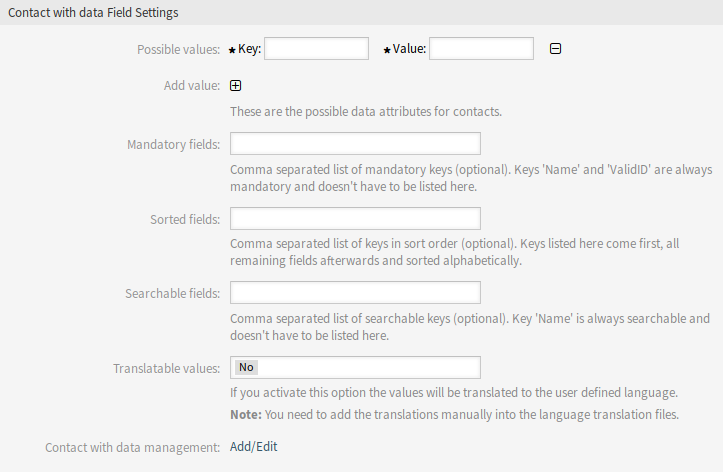
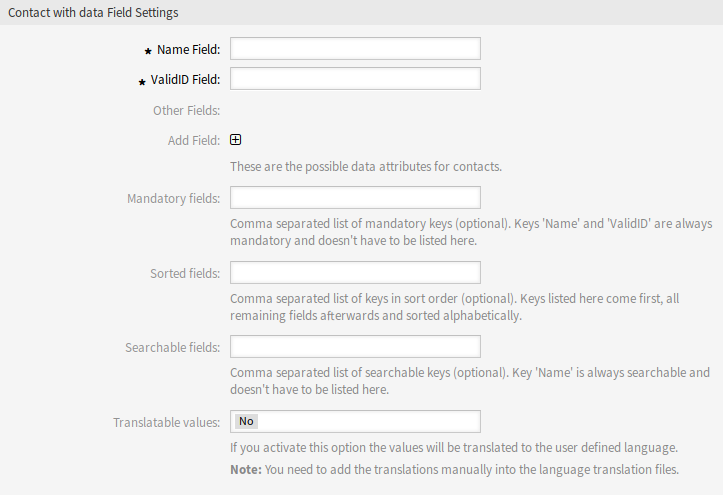
Adapted documentation to new contact with data dynamic field screen.

diff --git a/content/processes-automation/dynamic-fields.rst b/content/processes-automation/dynamic-fields.rst
@@ -128,14 +128,21 @@ This dynamic field allows to add contacts with data to tickets.
 
    Contact With Data Dynamic Field Settings
 
-Possible values \*
-   These are the possible data attributes for contacts. Clicking on the *⊞* button will add two new fields, where a key (internal value) and a value (displayed value) can be set. With the button you can add multiple key-value pairs.
+Name Field \*
+   The attribute ``Name`` is always mandatory and it is not automatically added, so for each new data source this attribute must be added manually. Within the data source definition (or dynamic field configuration) they must be represented by the key ``Name`` and the value could be *Name* for example.
 
-   .. note::
+ValidID Field \*
+   The attribute ``ValidID`` is always mandatory and it is not automatically added, so for each new data source this attribute must be added manually. Within the data source definition (or dynamic field configuration) they must be represented by the key ``ValidID`` and the value could be *Validity* for example.
 
-      The attributes ``Name`` and ``ValidID`` are always mandatory and they are not automatically added, so for each new data source these attributes must be added manually.
+Other Fields
+   These are the possible data attributes for contacts. Clicking on the *⊞* button of the *Add Fields* will add two new fields, where a *Key* (internal value) and a *Value* (displayed value) can be set. With the button you can add multiple key-value pairs.
 
-      Within the data source definition (or dynamic field configuration) they must be represented by the keys ``Name`` and ``ValidID`` respectively while the values could be *Name* and *Validity* for example.
+   .. warning::
+
+      The keys ``Name`` and ``ValidID`` are already used by *Name Field* and *ValidID Field*. Do not use these keys again!
+
+Add Fields
+   Use this button to add more fields to dynamic field.
 
 Mandatory fields
    Comma separated list of mandatory keys.
@@ -161,17 +168,44 @@ Translatable values
 
       You need to add the translations manually into the language translation files.
 
-Contact with data management
-   There is a link *Add/Edit*, that points to *Tickets* → *Edit contacts with data* to add some data.
+When the dynamic field was saved, click on the name of the newly created field in the overview table. The *Edit Dynamic Field* will open. There is a button *Add or edit contacts*, that points to *Tickets* → *Edit contacts with data* to add some data.
+
+.. figure:: images/dynamic-field-contact-with-data-management.png
+   :alt: Contact With Data Management Screen
+
+   Contact With Data Management Screen
+
+To add a new contact with data:
+
+1. Select a dynamic field from the drop-down list in *Actions* widget of the left sidebar.
+2. Click on the *Add contact with data* button in the left sidebar.
+3. Fill in the required fields.
+4. Click on the *Save* button.
+
+.. figure:: images/dynamic-field-contact-with-data-add.png
+   :alt: Add Contact With Data Screen
+
+   Add Contact With Data Screen
+
+To edit a contact with data:
+
+1. Click on a contact with data in the list of contact with data entries.
+2. Modify the fields.
+3. Click on the *Save* or *Save and finish* button.
+
+.. figure:: images/dynamic-field-contact-with-data-edit.png
+   :alt: Edit Contact With Data Screen
+
+   Edit Contact With Data Screen
 
 The usage of this type of dynamic field is more complex then the others. An exemplary usage of contacts with data is as follows:
 
 1. Create a new dynamic field of type contact with data.
-2. Set the possible contact attributes (possible values). ``Name`` and ``ValidID`` are required for any contact with data dynamic field.
+2. Set the possible contact attributes (possible values).
 
-   - Add ``Name`` attribute (key: ``Name``, value: *Name*).
-   - Add ``ValidID`` attribute (key: ``ValidID``, value: *Validity*).
-   - Add any other attribute such as ``Telephone`` attribute (key: ``Telephone``, value: *Phone*).
+   - Type *Name* into *Name Field*.
+   - Type *Validity* into *ValidID Field*.
+   - Add any other attribute with *Add Fields* button such as ``Telephone`` attribute (key: ``Telephone``, value: *Phone*).
 
 3. Add the list of mandatory attribute keys comma separated (``Name`` and ``ValidID`` are not needed).
 4. Set the attribute key order list comma separated as: ``Name,Telephone,ValidID``.
@@ -396,10 +430,10 @@ To display a dynamic field on a screen:
 
 1. Make sure that the dynamic field *Validity* is set to *valid*.
 2. Open the *System Configuration* module in the admin interface.
-3. Navigate to *Fromtend* → *Agent* → *View* and select a view to add the dynamic field to.
+3. Navigate to *Frontend* → *Agent* → *View* and select a view to add the dynamic field to.
 4. Find the setting ends with ``###DynamicField`` and click on the *Edit this setting* button.
 5. Click on the *+* button to add the dynamic field.
-6. Enter the name of the dynamic field to the textbox and click on the tick button.
+6. Enter the name of the dynamic field to the text box and click on the tick button.
 7. Select *1 - Enabled* or *2 - Enabled and required*.
 8. Click on the tick button on the right to save the setting.
 9. Deploy the modified system configuration.
